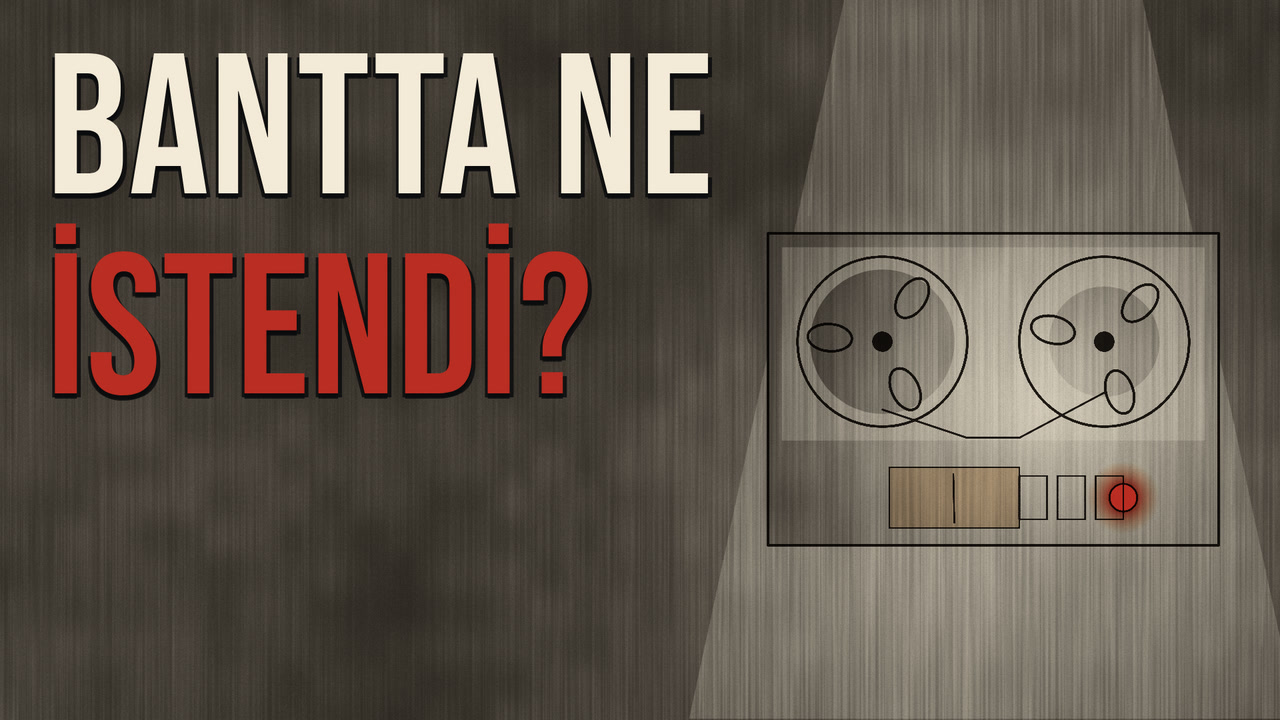
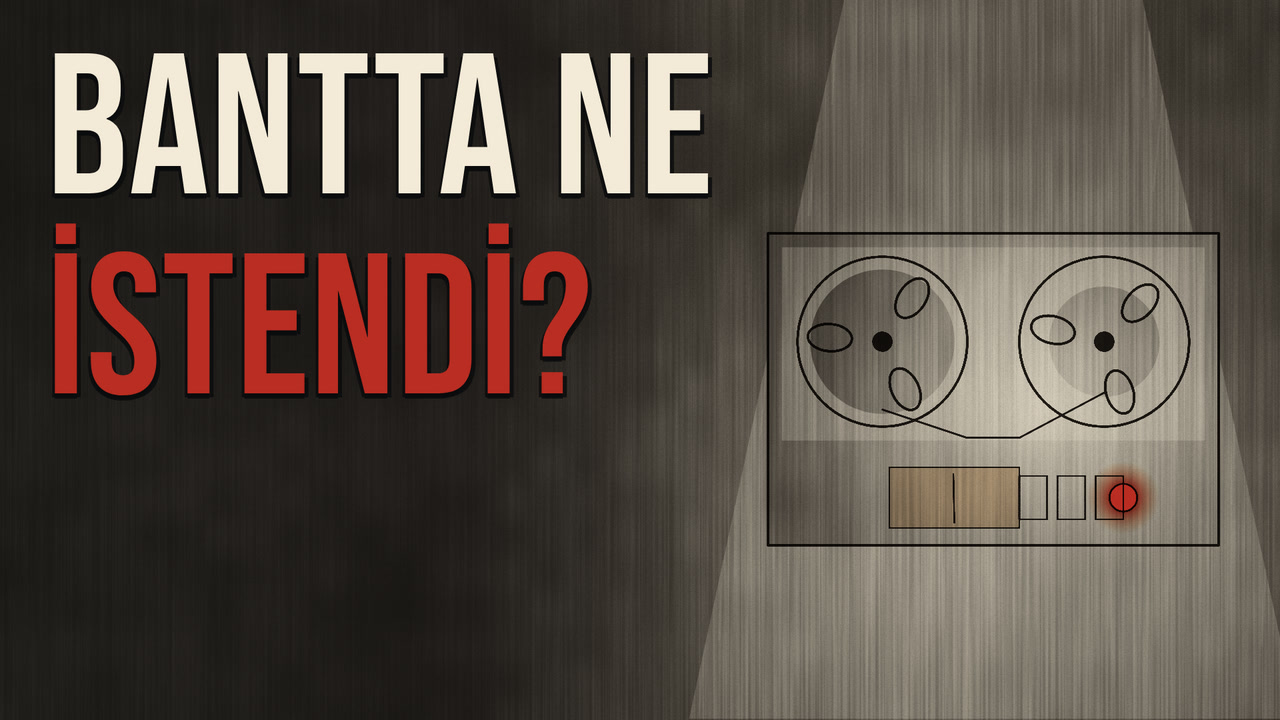
Stanford kapak B: kırmızı vurgu satırının arkası koyulaştırıldı (Fable)
- B "BANTTA NE İSTENDİ?": yazının arkasına soldan koyulaşan bir gölge (x 0–1100, alfa .62);
  kırmızı satır gri değerde de okunuyor (yerel fark +17 → +56; test seti yazı/zemin +90 → +131).
  Kırmızı lambanın rengiyle aynı kaldı; koni, teyp ve odak değişmedi.
- A'ya dokunulmadı (yazı başkanın kararı; çelişki figürle kuruluyor).
- B'ye gardiyan parçası eklenmedi: masa + figür + tepeden koni sorgu odası okunur.
- Eski kapakların odak haritası PNG'leri (test/A_odak.png, B_odak.png) çıkarıldı.
- yayin.md: B satırı ve test notu güncel; yedek başlıkla B'nin tekrarı not edildi.

Claude-Session: https://claude.ai/code/session_01DiDBPCNVdTbcKEowzqSXTP

Changed region(s): [[0.0, 0.0, 0.4375, 1.0]]

diff --git a/stanford/lib/kapak.js b/stanford/lib/kapak.js
@@ -75,6 +75,8 @@ const KAPAK = {
       g.save(); g.fillStyle = gr; g.beginPath(); g.arc(lx, ly, lr, 0, TAU); g.fill(); g.restore();
       const k = B.k; k.save(); k.fillStyle = '#fff'; k.beginPath(); k.arc(lx, ly, 15 * ts, 0, TAU); k.fill(); k.restore(); }   // yanan lamba: altı açık, kırmızı kendi rengiyle görünür (vurgu rengi bu)
     B.compose(ctx);
+    { const a = o.solKoyu ?? .62, e = o.solBit ?? 1100, g = ctx.createLinearGradient(0, 0, e, 0); g.addColorStop(0, `rgba(8,8,8,${a})`); g.addColorStop(.65, `rgba(8,8,8,${a * .85})`); g.addColorStop(1, 'rgba(8,8,8,0)');
+      ctx.save(); ctx.fillStyle = g; ctx.fillRect(0, 0, e, 1080); ctx.restore(); }   // yazının arkası koyu (Fable, 27 Kasım): kırmızı vurgu satırı gri değerde de zeminden ayrılsın; koni (x > 1100) ve teyp etkilenmez
     if (o.yazi !== false) yazi(ctx, o.satir || ['BANTTA NE', 'İSTENDİ?'], o.tx ?? 70, o.ty ?? 290, 300, { ls: 2, lh: o.lh ?? 1.0, renkler: [FILDISI, o.vurgu || KIRMIZI] });
     return cv;
   },
